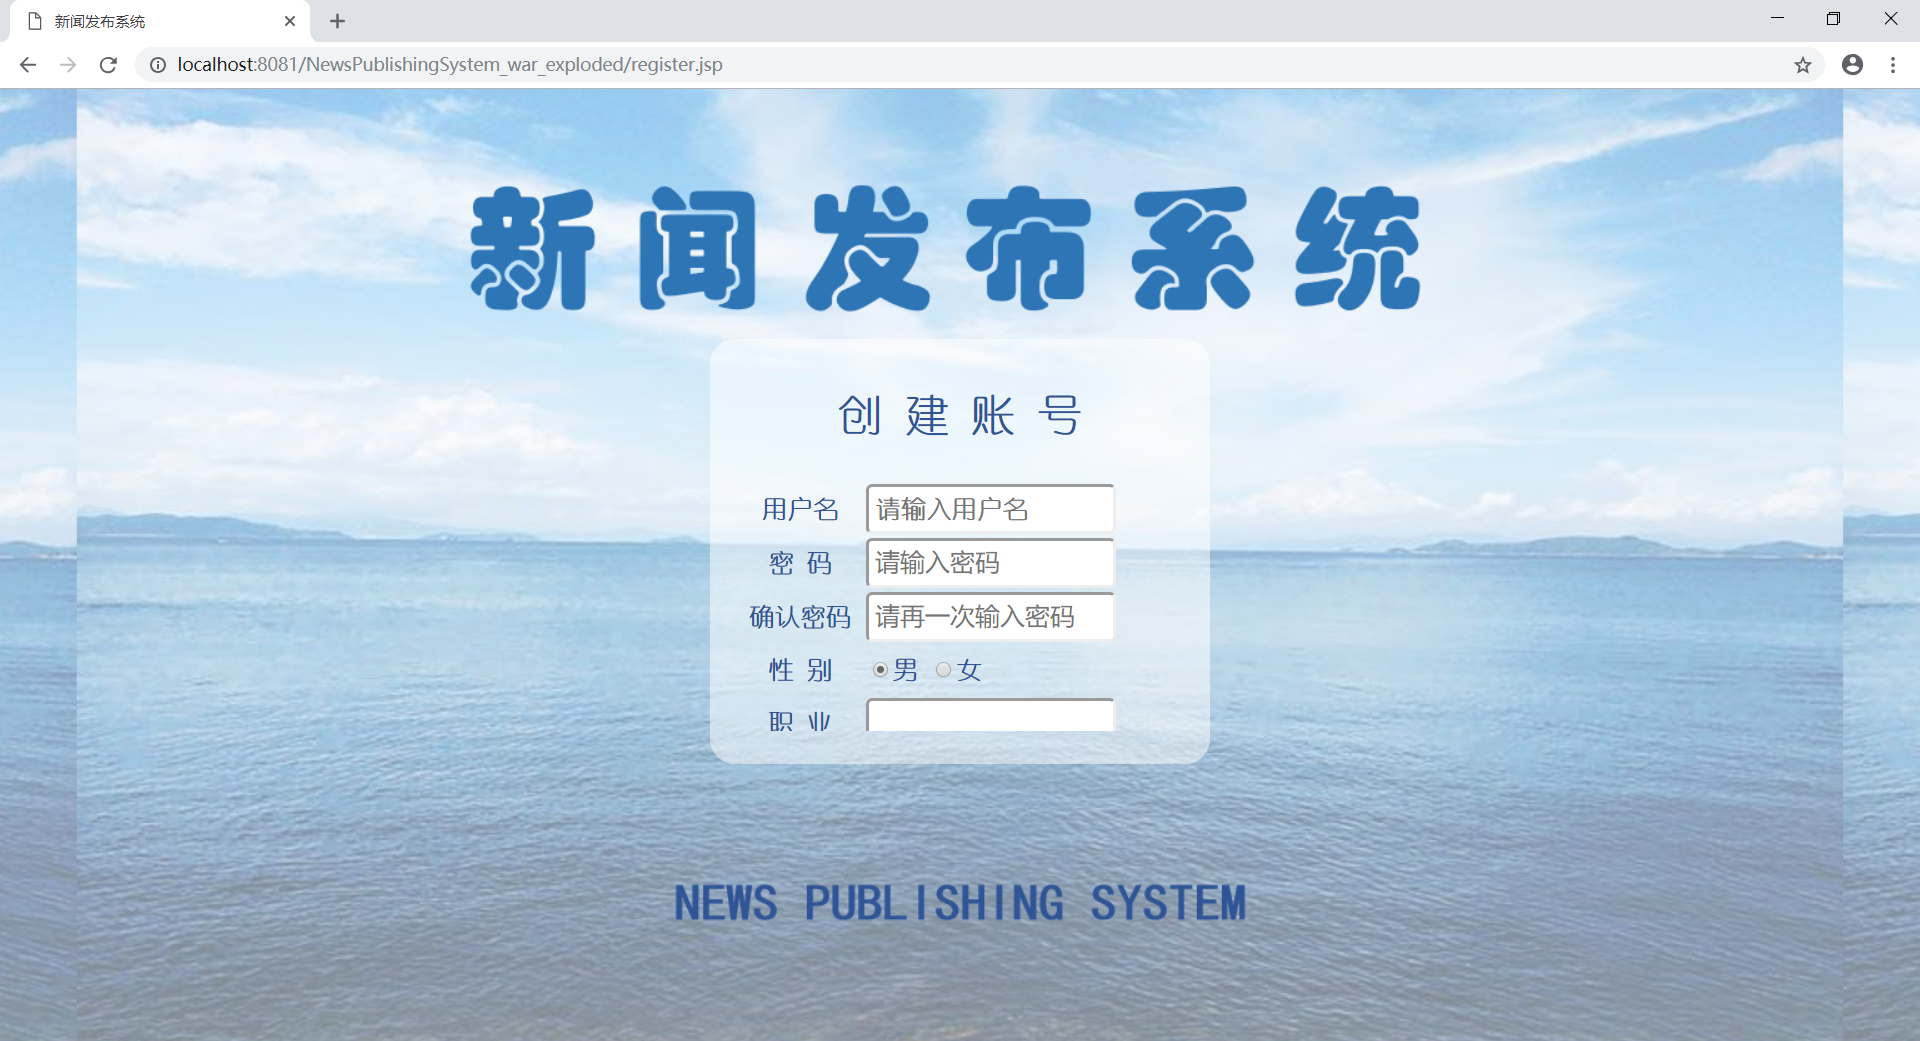
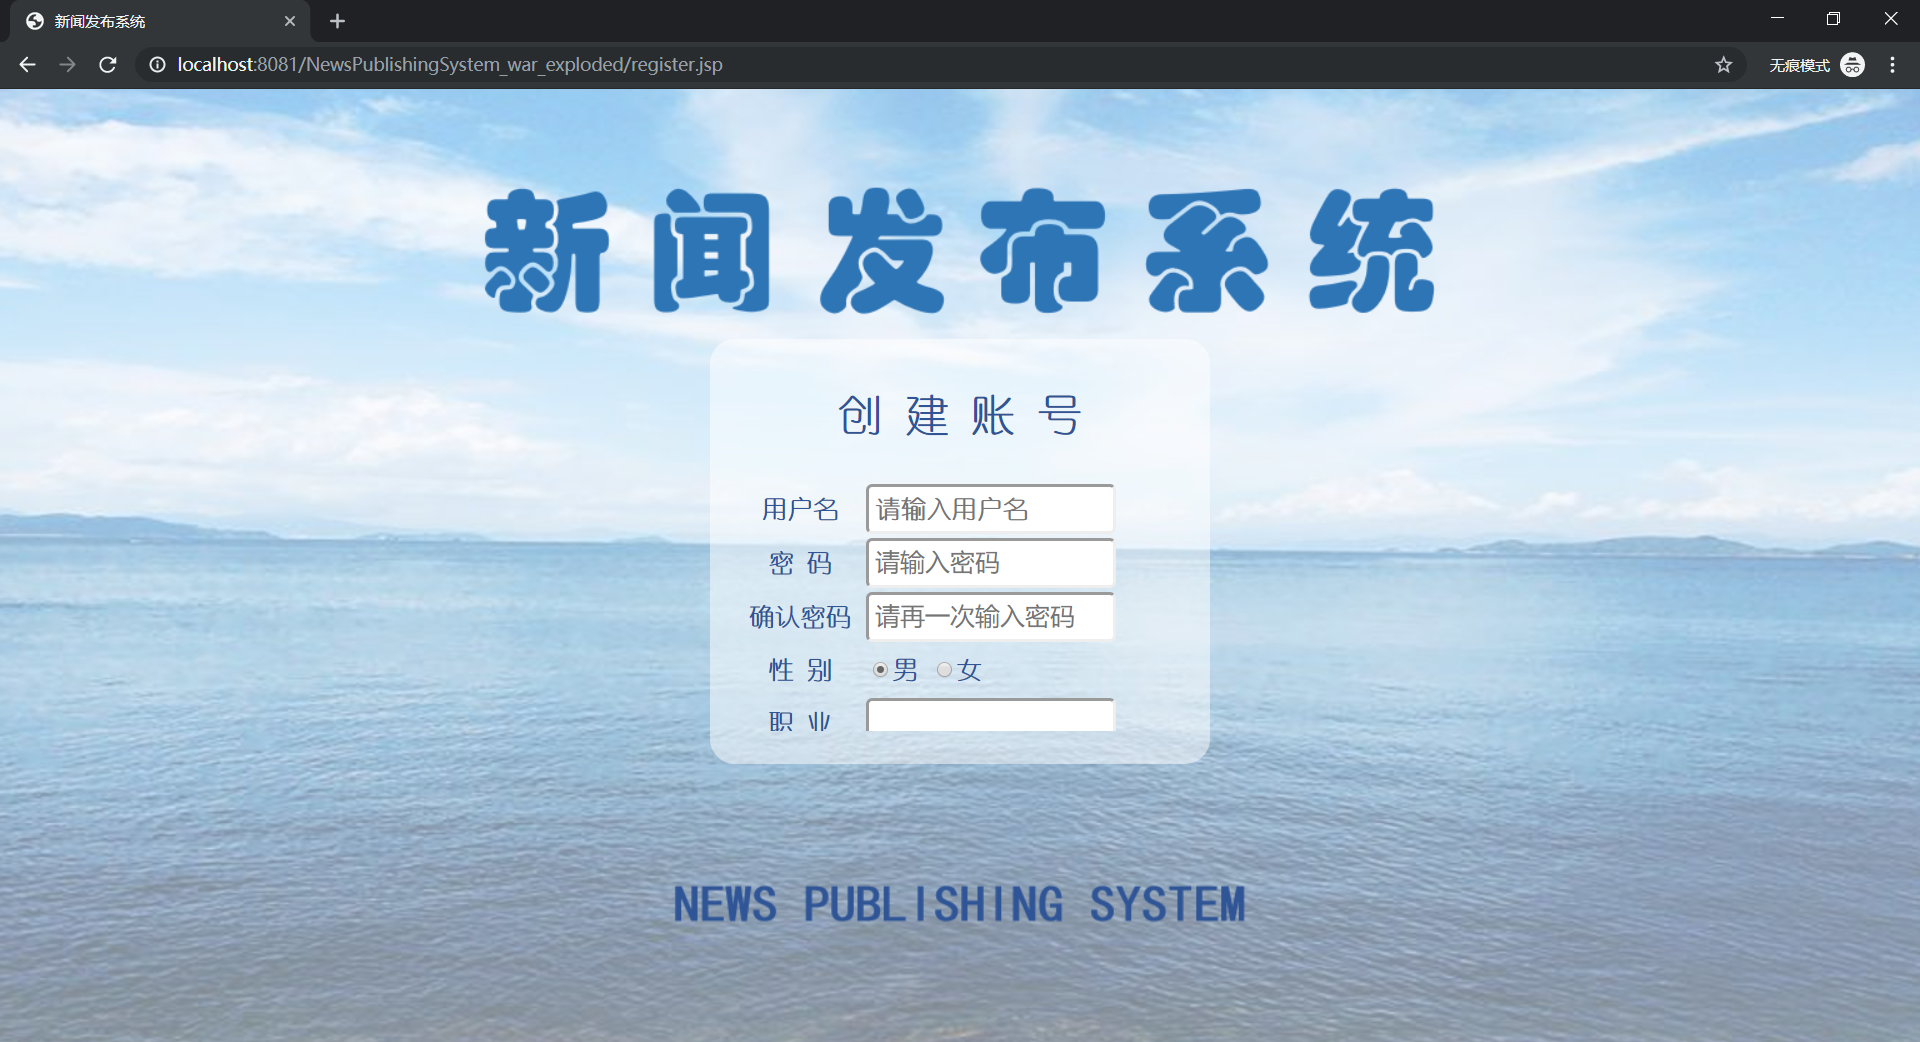
add title.css

diff --git a/out/artifacts/NewsPublishingSystem_war_exploded/css/title.css b/out/artifacts/NewsPublishingSystem_war_exploded/css/title.css
@@ -1,0 +1,31 @@
+/*
+    title背景
+ */
+body{
+    background-image: url("../image/titleBackGround.png");
+    background-position: center, left;
+}
+
+a{
+    text-decoration: none;
+    color: black;
+}
+
+#tableStyle{
+    float: right;
+    font-weight: bold;
+    font-family: 幼圆;
+    font-size: 18px;
+    color: rgba(47, 85, 151, 1);
+}
+
+#tableStyle td{
+    width: 100px;
+    height: 20px;
+}
+
+#tableStyle td.user{
+    width: auto;
+    padding-right: 10px;
+}
+

diff --git a/web/css/title.css b/web/css/title.css
@@ -1,0 +1,31 @@
+/*
+    title背景
+ */
+body{
+    background-image: url("../image/titleBackGround.png");
+    background-position: center, left;
+}
+
+a{
+    text-decoration: none;
+    color: black;
+}
+
+#tableStyle{
+    float: right;
+    font-weight: bold;
+    font-family: 幼圆;
+    font-size: 18px;
+    color: rgba(47, 85, 151, 1);
+}
+
+#tableStyle td{
+    width: 100px;
+    height: 20px;
+}
+
+#tableStyle td.user{
+    width: auto;
+    padding-right: 10px;
+}
+
